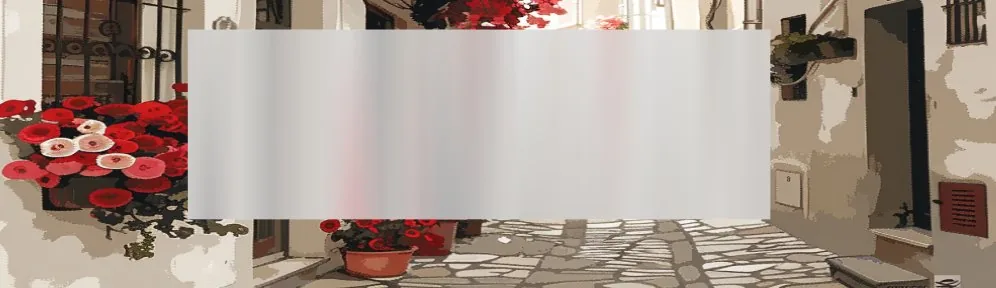
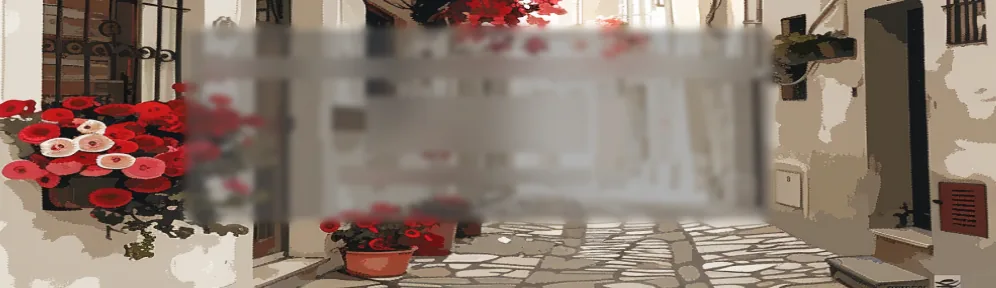
Final CTA: phone number on the button, translucent rounded glass card, cleaned background photo
Claude-Session: https://claude.ai/code/session_01Gw7vHuWDiBF9GfiDrPFvNY

diff --git a/index.html b/index.html
@@ -31,7 +31,7 @@
   <link rel="preconnect" href="https://fonts.googleapis.com">
   <link rel="preconnect" href="https://fonts.gstatic.com" crossorigin>
   <link href="https://fonts.googleapis.com/css2?family=Irish+Grover&family=Inter:wght@400;500;600;700&display=swap" rel="stylesheet">
-  <link rel="stylesheet" href="css/style.css?v=202610280856">
+  <link rel="stylesheet" href="css/style.css?v=202610280902">
 
   <script type="application/ld+json">
   {
@@ -487,8 +487,8 @@
       <div class="final">
         <div class="final__card">
           <h2 data-i18n="final.title">Для записи на курс напишите нам в WhatsApp</h2>
-          <a class="btn btn--primary btn--square js-wa" data-wa="final.wa" href="https://wa.me/244943090008" target="_blank" rel="noopener">
-            <svg class="ico"><use href="#i-whatsapp"/></svg><span data-i18n="final.cta">Перейти в WhatsApp</span>
+          <a class="btn btn--primary js-wa" data-wa="final.wa" href="https://wa.me/244943090008" target="_blank" rel="noopener">
+            <svg class="ico"><use href="#i-whatsapp"/></svg><span>+244 943 090 008</span>
           </a>
           <p class="final__note"><span data-i18n="final.note">Мы ответим в ближайшее время</span> 🫶</p>
         </div>
@@ -532,7 +532,7 @@
   <symbol id="i-book" viewBox="0 0 24 24" fill="none" stroke="currentColor" stroke-width="1.6" stroke-linecap="round" stroke-linejoin="round"><path d="M12 6.5C10 5 7 4.5 3.5 5v13.5c3.5-.5 6.5 0 8.5 1.5 2-1.5 5-2 8.5-1.5V5C17 4.5 14 5 12 6.5Z"/><path d="M12 6.5V20"/></symbol>
 </svg>
 
-<script src="js/i18n.js?v=202610280856" defer></script>
-<script src="js/main.js?v=202610280856" defer></script>
+<script src="js/i18n.js?v=202610280902" defer></script>
+<script src="js/main.js?v=202610280902" defer></script>
 </body>
 </html>

diff --git a/css/style.css b/css/style.css
@@ -361,17 +361,21 @@ button { font: inherit; cursor: pointer; }
 }
 .final__card {
   width: min(600px, 100%); text-align: center;
-  background: rgba(255, 255, 255, .82);
-  backdrop-filter: blur(6px);
+  background: rgba(255, 255, 255, .55);
+  -webkit-backdrop-filter: blur(12px) saturate(140%);
+  backdrop-filter: blur(12px) saturate(140%);
+  border: 1px solid rgba(255, 255, 255, .6);
+  border-radius: 24px;
+  box-shadow: 0 10px 30px rgba(20, 20, 50, .12);
   padding: 30px 24px;
 }
 .final__card h2 { font-size: clamp(20px, 2.2vw, 24px); font-weight: 500; }
-.final__card .btn { margin-top: 22px; }
-/* On wide screens the card sits exactly over the frosted panel baked into the photo */
+.final__card .btn { margin-top: 22px; letter-spacing: .02em; }
+/* On wide screens the card covers the softened area in the middle of the photo */
 @media (min-width: 1000px) {
   .final { position: relative; aspect-ratio: 996 / 288; min-height: 0; padding: 0; display: block; }
   .final__card {
-    position: absolute; left: 18.9%; top: 10.4%; width: 58.4%; height: 65.6%;
+    position: absolute; left: 17%; top: 7%; width: 62%; height: 72%;
     display: flex; flex-direction: column; align-items: center; justify-content: center;
     padding: 16px 24px;
   }

diff --git a/js/i18n.js b/js/i18n.js
@@ -146,7 +146,6 @@ window.I18N = {
     'faq.a5': 'Message us on WhatsApp — we will suggest the right course and the nearest group.',
 
     'final.title': 'To enroll in a course, message us on WhatsApp',
-    'final.cta': 'Go to WhatsApp',
     'final.note': 'We will reply shortly',
 
     'footer.rights': 'Online school of conversational Portuguese'
